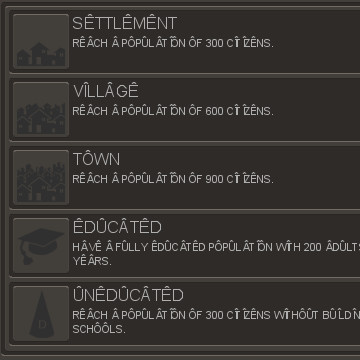
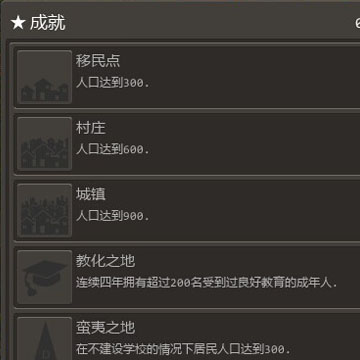
合并提交，并更新说明。

Changed region(s): [[0.0, 0.0, 1.0, 1.0]]

diff --git a/README.md b/README.md
@@ -19,3 +19,8 @@
 
 pkm下载地址：http://pan.baidu.com/s/1hqgkMAK
 
+
+更新日志：
+===========
+2014-11-01
+合并来自@emitvoice的提交，主要包括对成就相关内容的汉化。
